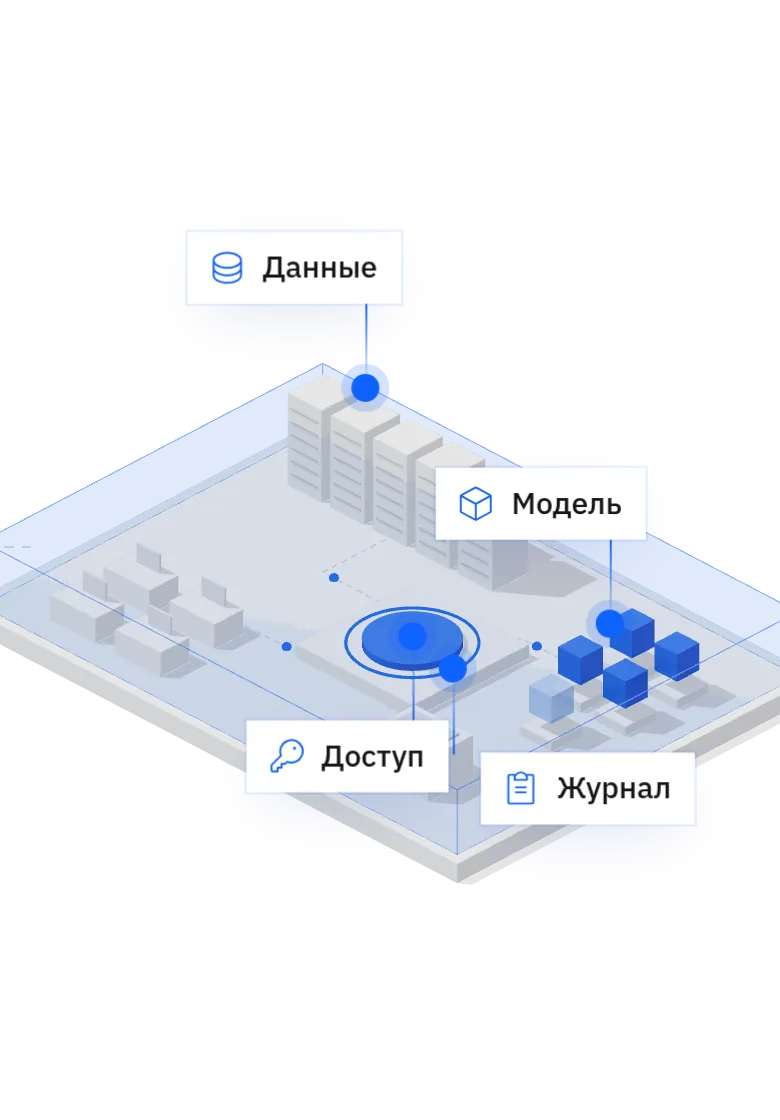
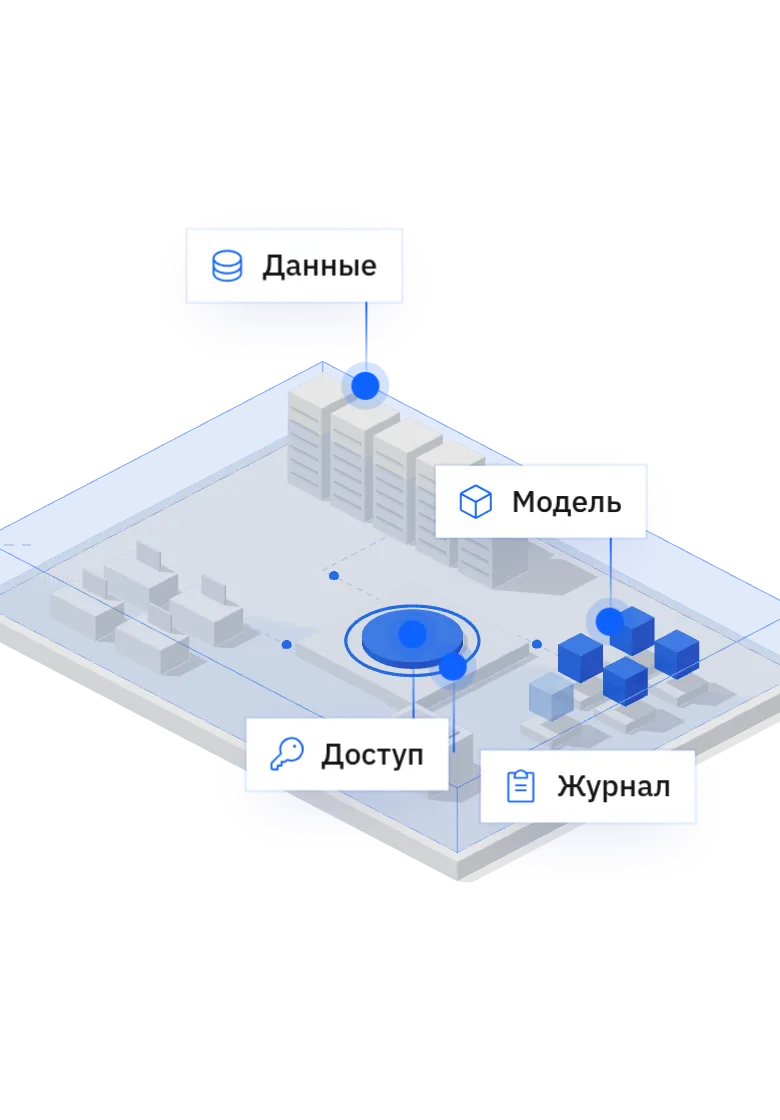
Главная: плашка «Доступ: права и токены»

diff --git a/index.html b/index.html
@@ -44,7 +44,7 @@
   <div class="scene" data-view="all" role="img" aria-label="Схема: внутри периметра компании стоят серверы, Атриум, журнал, модели и рабочие места команд; связь с интернетом оборвана">
     <canvas></canvas><picture class="still"><source media="(max-width:560px)" srcset="assets/scene/index-m.webp"><source media="(max-width:1100px)" srcset="assets/scene/index-t.webp"><img src="assets/scene/index.webp" alt="" loading="lazy"></picture>
     <div class="pin l" data-a="data"><i class="dot"></i><i class="stem"></i><div class="tag"><i class="ic i-data"></i><div><b>Данные</b><span>на внутренних серверах</span></div></div></div>
-    <div class="pin l d" data-a="access"><i class="dot"></i><i class="stem"></i><div class="tag"><i class="ic i-key"></i><div><b>Доступ</b><span>роли и токены</span></div></div></div>
+    <div class="pin l d" data-a="access"><i class="dot"></i><i class="stem"></i><div class="tag"><i class="ic i-key"></i><div><b>Доступ</b><span>права и токены</span></div></div></div>
     <div class="pin" data-a="model"><i class="dot"></i><i class="stem"></i><div class="tag"><i class="ic i-model"></i><div><b>Модель</b><span>открытая или своя</span></div></div></div>
     <div class="pin d" data-a="trace"><i class="dot"></i><i class="stem"></i><div class="tag"><i class="ic i-log"></i><div><b>Журнал</b><span>кто, что и когда</span></div></div></div>
     <div class="pin out l" data-a="net"><i class="dot"></i><i class="stem"></i><div class="tag"><div><b>Интернет</b><span>не нужен</span></div></div></div>
